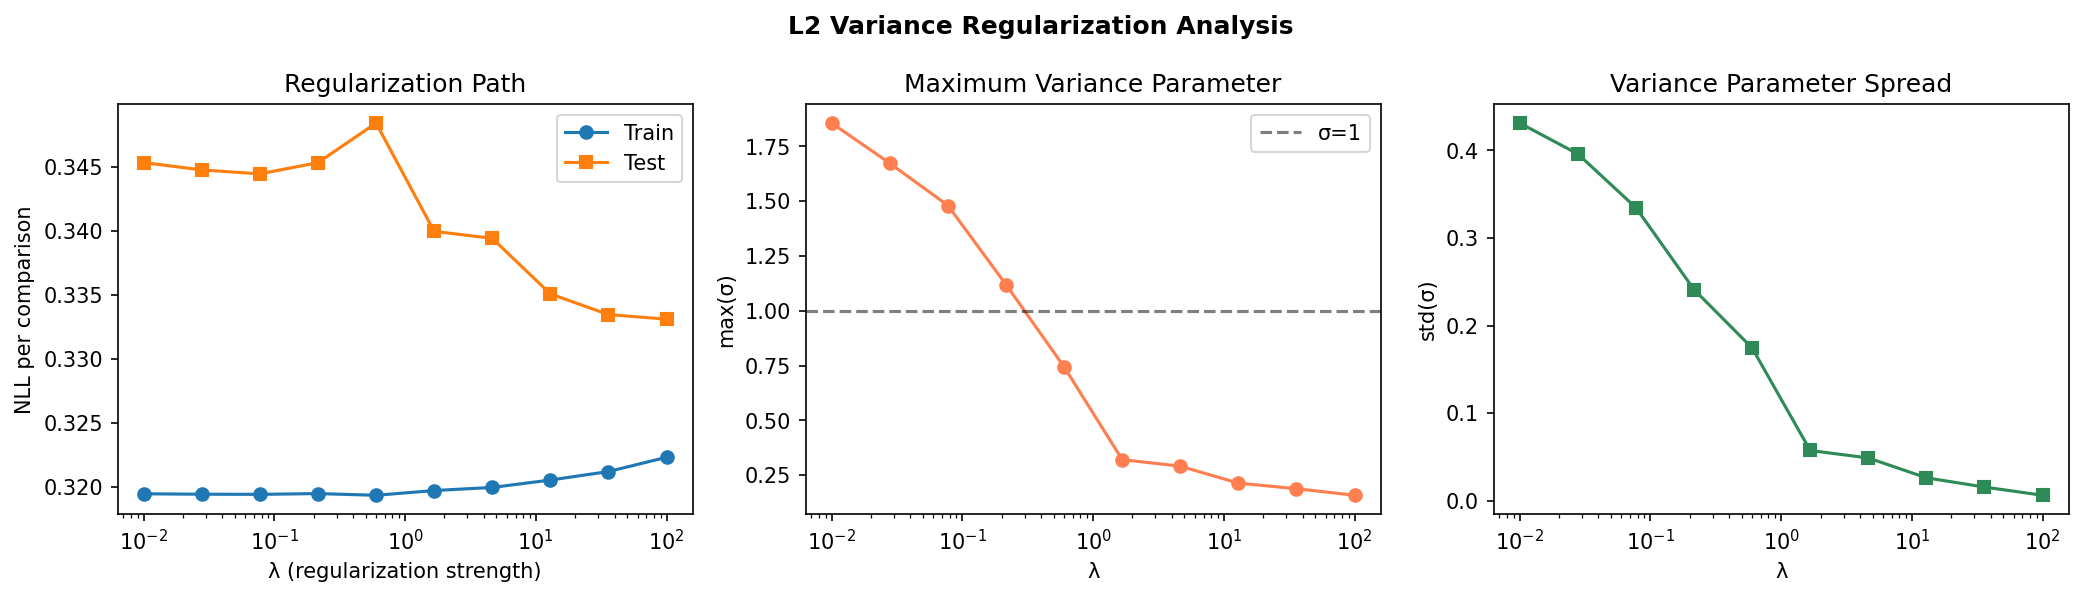
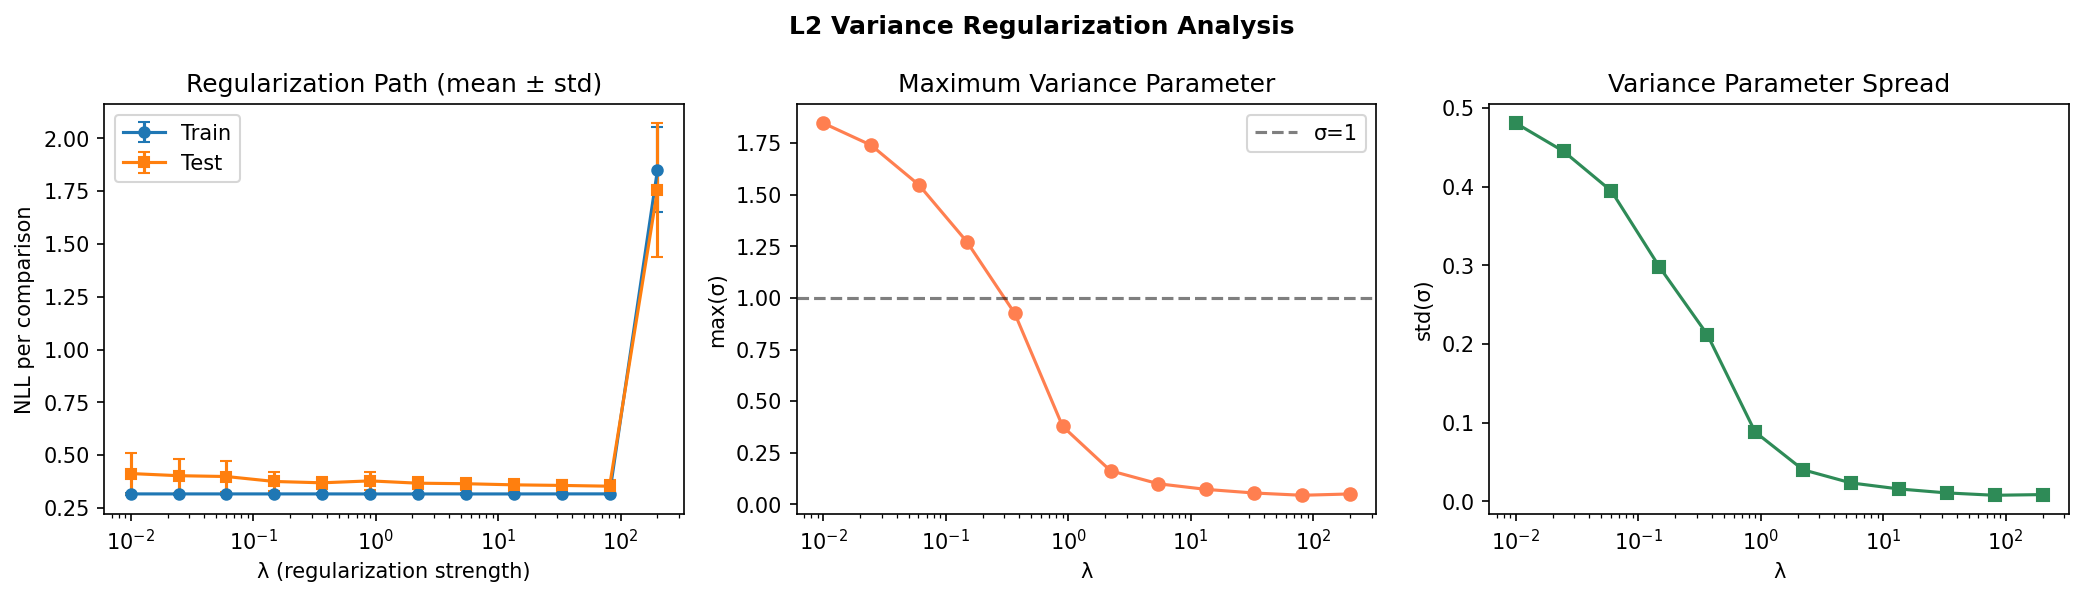
change validation set to be edges rather than comparisons

diff --git a/data_analysis/regularization_analysis.py b/data_analysis/regularization_analysis.py
@@ -26,21 +26,30 @@ def split_wins(
     test_frac: float,
     rng: np.random.Generator,
 ) -> tuple[np.ndarray, np.ndarray]:
-    """Per-pair proportional split. Returns (train_wins, test_wins).
+    """Hold out entire pairs (edges) for test. Returns (train_wins, test_wins).
 
-    Each individual comparison is randomly assigned to test with probability test_frac.
+    Each pair (i,j) is randomly assigned to test with probability test_frac.
+    All comparisons for that pair go to either train or test, not split.
     """
     n = wins.shape[0]
-    train = np.zeros_like(wins)
+    train = wins.copy()
     test = np.zeros_like(wins)
-    for i in range(n):
-        for j in range(n):
-            total = wins[i, j]
-            if total > 0:
-                # Each comparison independently goes to test with prob test_frac
-                n_test = rng.binomial(total, test_frac)
-                test[i, j] = n_test
-                train[i, j] = total - n_test
+
+    # Get all pairs with comparisons
+    pairs = [(i, j) for i in range(n) for j in range(i + 1, n) if wins[i, j] + wins[j, i] > 0]
+
+    # Randomly select pairs for test
+    n_test_pairs = int(len(pairs) * test_frac)
+    test_pair_indices = rng.choice(len(pairs), size=n_test_pairs, replace=False)
+
+    for idx in test_pair_indices:
+        i, j = pairs[idx]
+        # Move all comparisons for this pair to test
+        test[i, j] = wins[i, j]
+        test[j, i] = wins[j, i]
+        train[i, j] = 0
+        train[j, i] = 0
+
     return train, test
 
 
@@ -57,46 +66,64 @@ def run_regularization_path(
     n_tasks: int = 30,
     n_comparisons_per_pair: int = 10,
     test_frac: float = 0.2,
-    seed: int = 42,
+    n_splits: int = 10,
 ):
-    """Run regularization path analysis on synthetic data."""
-    rng = np.random.default_rng(seed)
-
-    # Generate synthetic data
+    """Run regularization path analysis on synthetic data, averaged over multiple splits."""
+    # Generate synthetic data once
+    data_rng = np.random.default_rng(42)
     true_mu = np.linspace(-3, 3, n_tasks)
     true_sigma = np.ones(n_tasks)
     tasks = [make_task(f"t{i}") for i in range(n_tasks)]
-    wins = simulate_pairwise_comparisons(true_mu, true_sigma, n_comparisons_per_pair, rng)
-
-    # Split into train/test
-    train_wins, test_wins = split_wins(wins, test_frac, rng)
-    n_train = int(train_wins.sum())
-    n_test = int(test_wins.sum())
-    print(f"Train comparisons: {n_train}, Test comparisons: {n_test}")
+    wins = simulate_pairwise_comparisons(true_mu, true_sigma, n_comparisons_per_pair, data_rng)
 
     # Fit at different lambda values
-    lambdas = np.logspace(-2, 2, 10)
-    train_nlls, test_nlls, sigma_maxs, sigma_stds = [], [], [], []
+    lambdas = np.logspace(-2, np.log10(200), 12)
 
-    for lam in lambdas:
-        data = PairwiseData(tasks=tasks, wins=train_wins)
-        result = fit_thurstonian(data, lambda_sigma=lam)
-        # Normalize by number of comparisons for fair comparison
-        train_nll_per_comp = eval_nll(result.mu, result.sigma, train_wins) / n_train
-        test_nll_per_comp = eval_nll(result.mu, result.sigma, test_wins) / n_test
-        train_nlls.append(train_nll_per_comp)
-        test_nlls.append(test_nll_per_comp)
-        sigma_maxs.append(float(result.sigma.max()))
-        sigma_stds.append(float(result.sigma.std()))
-        print(f"λ={lam:.4f}: train_nll/comp={train_nll_per_comp:.4f}, test_nll/comp={test_nll_per_comp:.4f}, max(σ)={sigma_maxs[-1]:.3f}")
+    # Accumulate results across splits
+    all_train_nlls = {lam: [] for lam in lambdas}
+    all_test_nlls = {lam: [] for lam in lambdas}
+    all_sigma_maxs = {lam: [] for lam in lambdas}
+    all_sigma_stds = {lam: [] for lam in lambdas}
 
-    return lambdas, train_nlls, test_nlls, sigma_maxs, sigma_stds
+    for split_idx in range(n_splits):
+        split_rng = np.random.default_rng(split_idx * 1000 + 123)  # Different seed per split
+        train_wins, test_wins = split_wins(wins, test_frac, split_rng)
+        n_train = int(train_wins.sum())
+        n_test = int(test_wins.sum())
+
+        print(f"Split {split_idx + 1}/{n_splits}: train={n_train}, test={n_test}")
+
+        for lam in lambdas:
+            data = PairwiseData(tasks=tasks, wins=train_wins)
+            result = fit_thurstonian(data, lambda_sigma=lam, log_sigma_bounds=(-4, 4))
+            train_nll_per_comp = eval_nll(result.mu, result.sigma, train_wins) / n_train
+            test_nll_per_comp = eval_nll(result.mu, result.sigma, test_wins) / n_test
+            all_train_nlls[lam].append(train_nll_per_comp)
+            all_test_nlls[lam].append(test_nll_per_comp)
+            all_sigma_maxs[lam].append(float(result.sigma.max()))
+            all_sigma_stds[lam].append(float(result.sigma.std()))
+
+    # Average across splits
+    train_nlls = [np.mean(all_train_nlls[lam]) for lam in lambdas]
+    test_nlls = [np.mean(all_test_nlls[lam]) for lam in lambdas]
+    train_nlls_std = [np.std(all_train_nlls[lam]) for lam in lambdas]
+    test_nlls_std = [np.std(all_test_nlls[lam]) for lam in lambdas]
+    sigma_maxs = [np.mean(all_sigma_maxs[lam]) for lam in lambdas]
+    sigma_stds = [np.mean(all_sigma_stds[lam]) for lam in lambdas]
+
+    print("\nAveraged results:")
+    for i, lam in enumerate(lambdas):
+        print(f"λ={lam:.4f}: train={train_nlls[i]:.4f}±{train_nlls_std[i]:.4f}, test={test_nlls[i]:.4f}±{test_nlls_std[i]:.4f}, max(σ)={sigma_maxs[i]:.3f}")
+
+    return lambdas, train_nlls, test_nlls, train_nlls_std, test_nlls_std, sigma_maxs, sigma_stds
 
 
 def plot_regularization_path(
     lambdas: np.ndarray,
     train_nlls: list[float],
     test_nlls: list[float],
+    train_nlls_std: list[float],
+    test_nlls_std: list[float],
     sigma_maxs: list[float],
     sigma_stds: list[float],
     output_path: Path,
@@ -104,13 +131,14 @@ def plot_regularization_path(
     """Plot train/test NLL and sigma statistics vs lambda."""
     fig, axes = plt.subplots(1, 3, figsize=(14, 4))
 
-    # Panel 1: Train vs Test NLL (normalized per comparison)
-    axes[0].semilogx(lambdas, train_nlls, "o-", label="Train", markersize=6)
-    axes[0].semilogx(lambdas, test_nlls, "s-", label="Test", markersize=6)
+    # Panel 1: Train vs Test NLL with error bars
+    axes[0].errorbar(lambdas, train_nlls, yerr=train_nlls_std, fmt="o-", label="Train", markersize=5, capsize=3)
+    axes[0].errorbar(lambdas, test_nlls, yerr=test_nlls_std, fmt="s-", label="Test", markersize=5, capsize=3)
+    axes[0].set_xscale("log")
     axes[0].set_xlabel("λ (regularization strength)")
     axes[0].set_ylabel("NLL per comparison")
     axes[0].legend()
-    axes[0].set_title("Regularization Path")
+    axes[0].set_title("Regularization Path (mean ± std)")
 
     # Panel 2: Sigma max
     axes[1].semilogx(lambdas, sigma_maxs, "o-", color="coral", markersize=6)
@@ -137,16 +165,16 @@ def main():
     OUTPUT_DIR.mkdir(parents=True, exist_ok=True)
 
     print("Running regularization path analysis...")
-    lambdas, train_nlls, test_nlls, sigma_maxs, sigma_stds = run_regularization_path()
+    lambdas, train_nlls, test_nlls, train_nlls_std, test_nlls_std, sigma_maxs, sigma_stds = run_regularization_path()
 
     plot_regularization_path(
-        lambdas, train_nlls, test_nlls, sigma_maxs, sigma_stds,
+        lambdas, train_nlls, test_nlls, train_nlls_std, test_nlls_std, sigma_maxs, sigma_stds,
         OUTPUT_DIR / "regularization_path.png",
     )
 
     # Find optimal lambda (lowest test NLL)
     best_idx = np.argmin(test_nlls)
-    print(f"\nBest λ = {lambdas[best_idx]:.4f} (test NLL = {test_nlls[best_idx]:.2f})")
+    print(f"\nBest λ = {lambdas[best_idx]:.4f} (test NLL = {test_nlls[best_idx]:.4f} ± {test_nlls_std[best_idx]:.4f})")
 
 
 if __name__ == "__main__":
